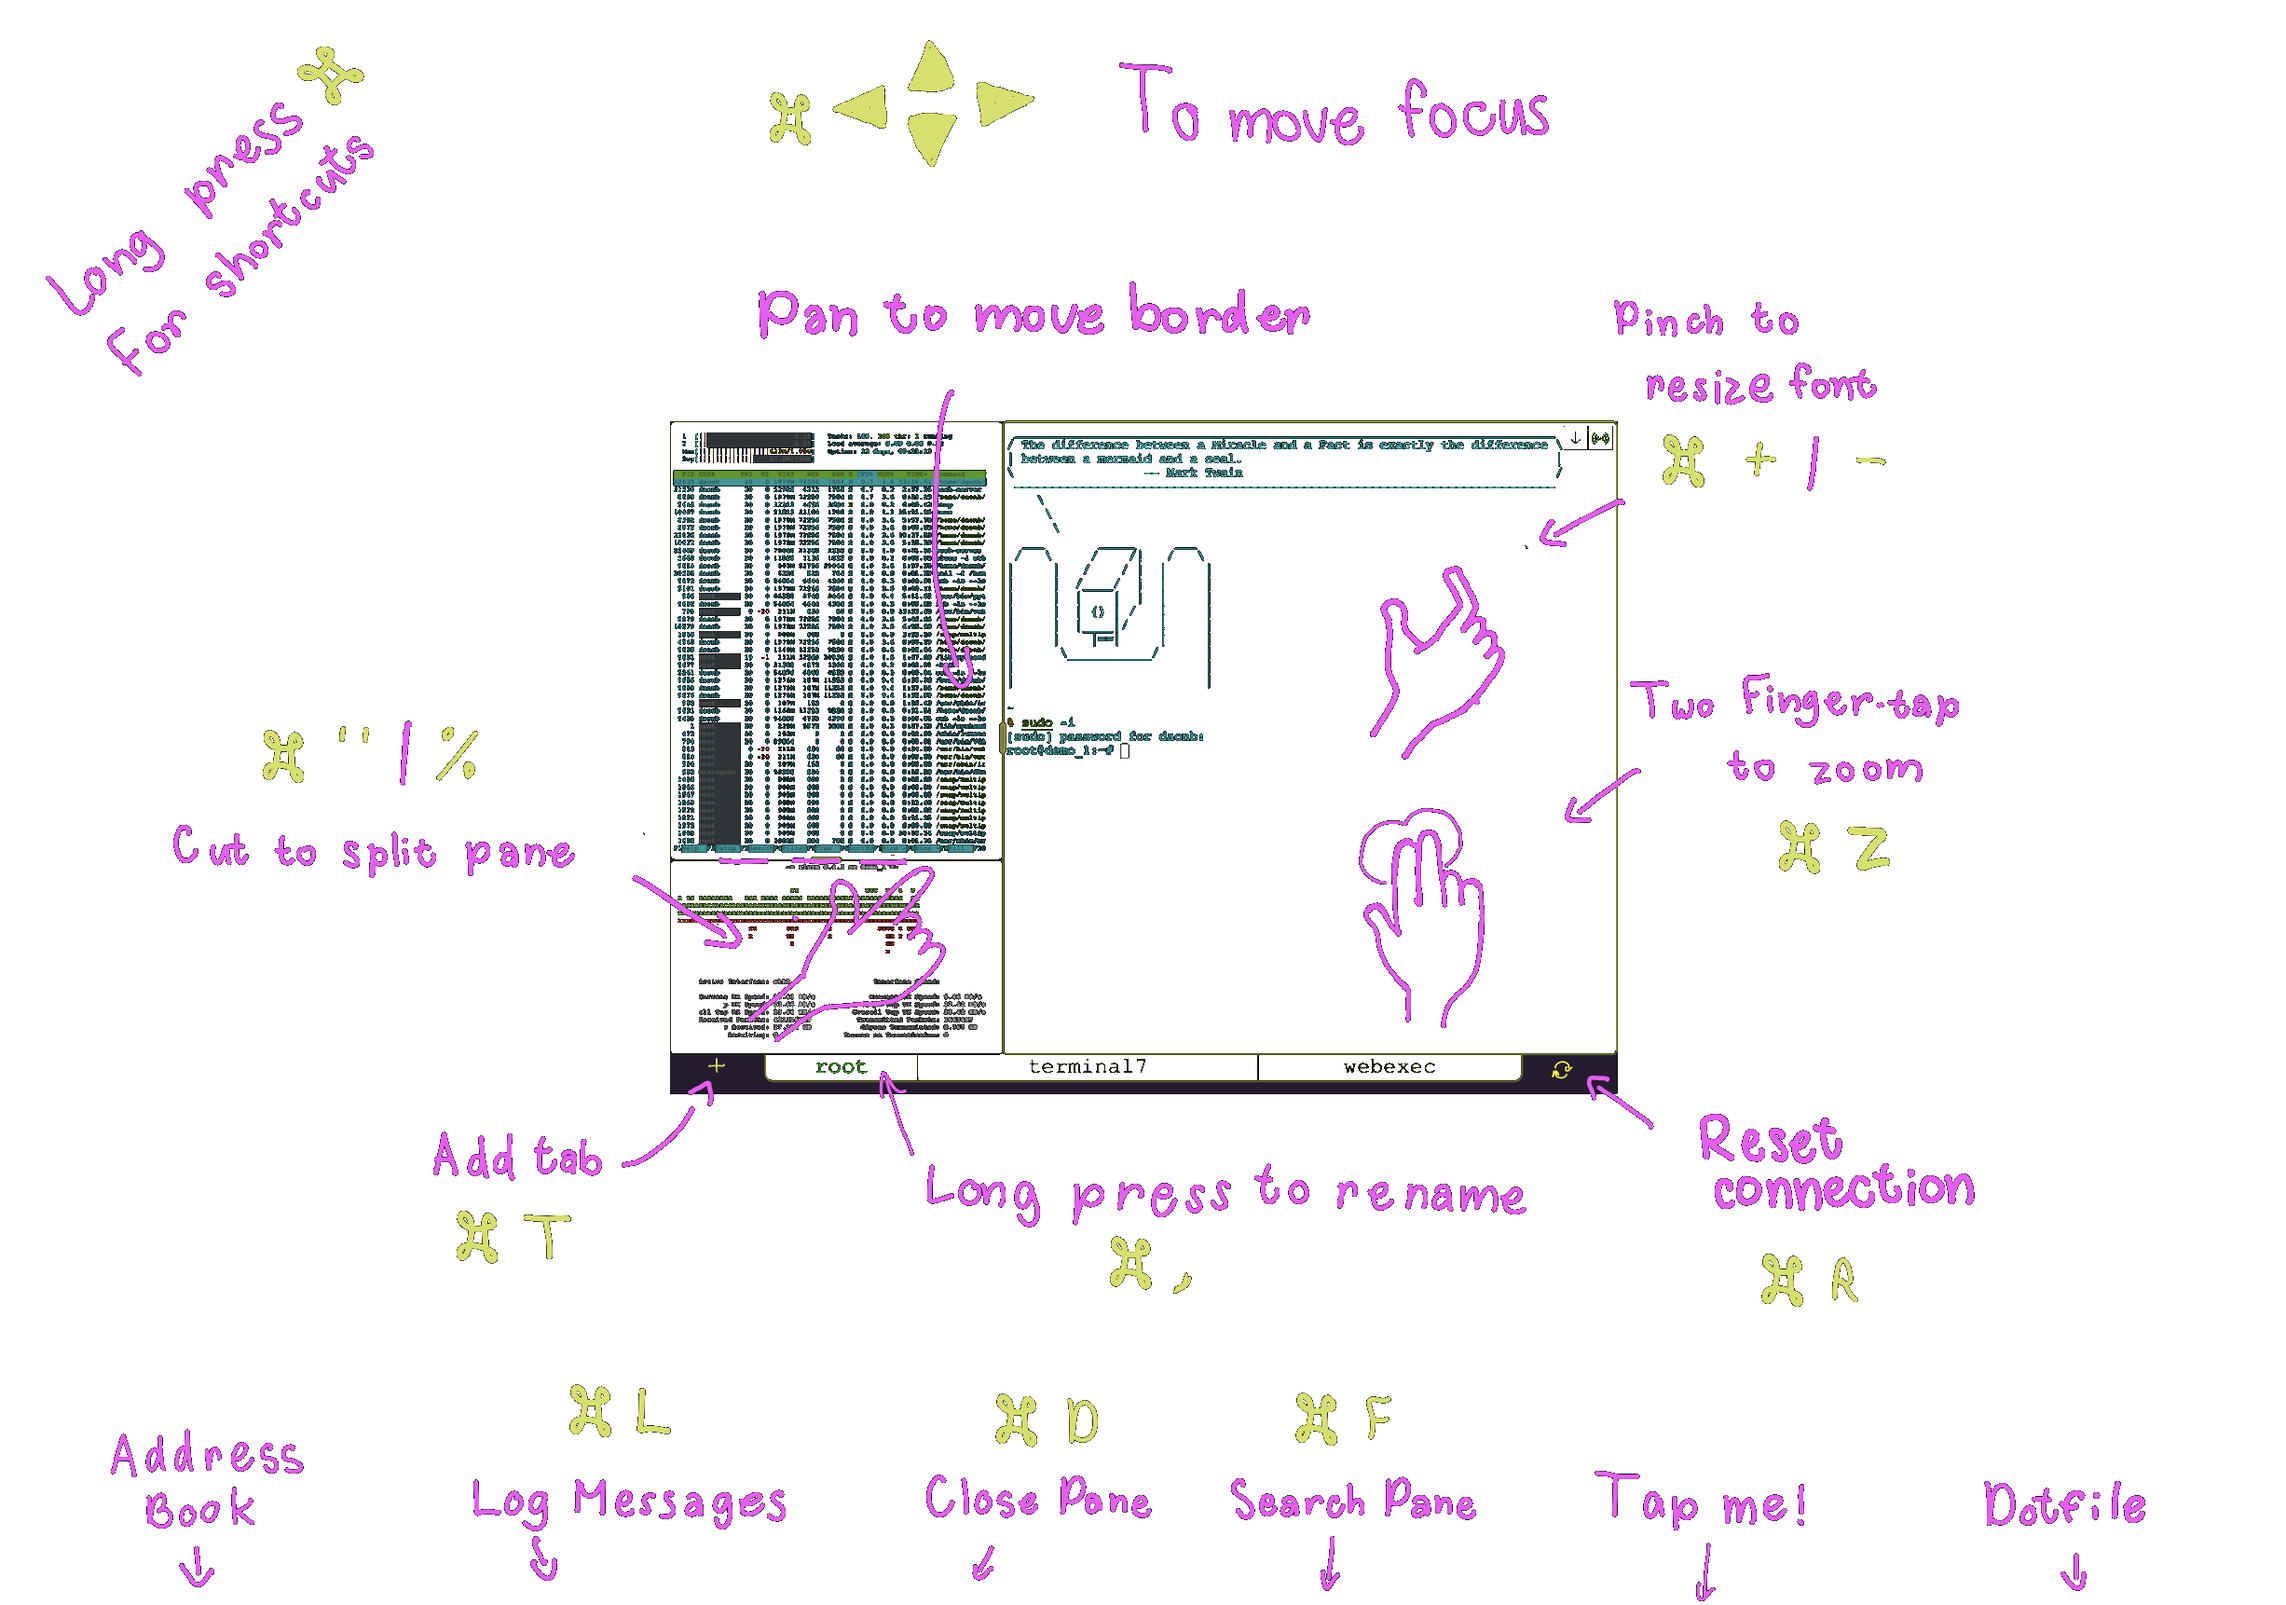
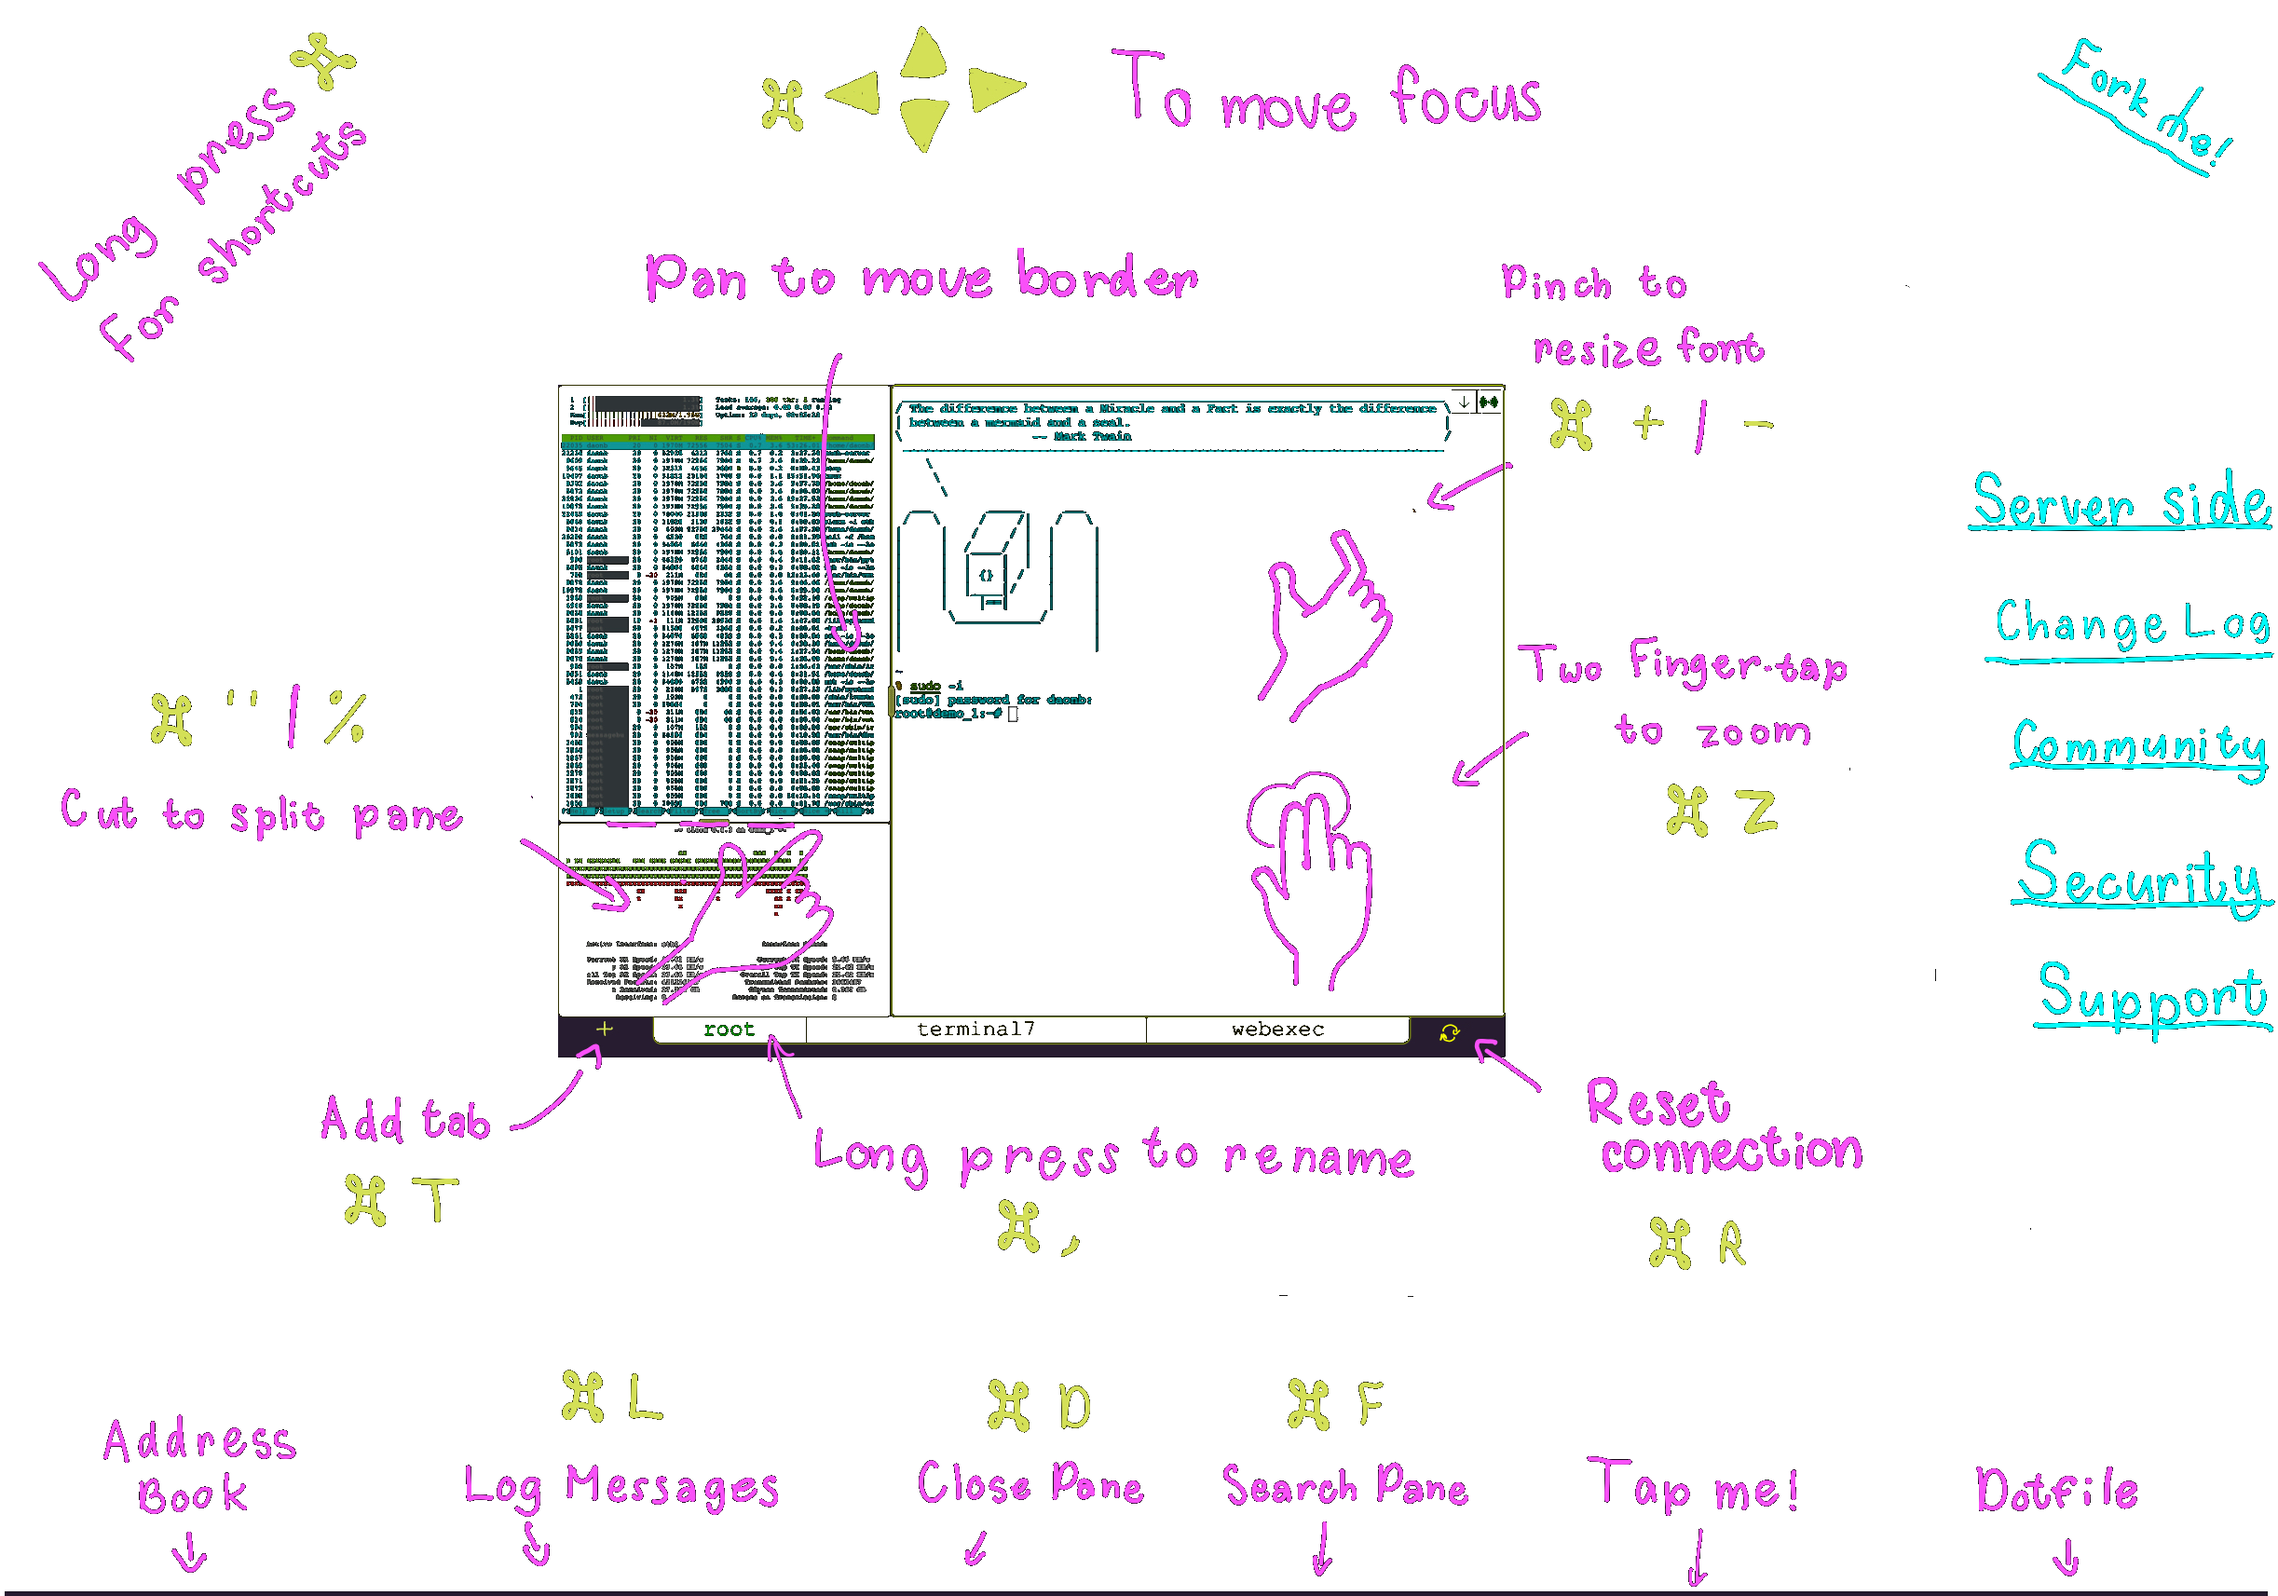
Restoring gate help links

diff --git a/www/index.html b/www/index.html
@@ -134,11 +134,29 @@
             <area shape="rect" coords="2000,1020,2439,1145"  alt="support"
                   href="mailto:support@tuzig.com"/>
         </map>
-        <img usemap="#help-home-links" src="img/help-home.png" alt="help screen"
-             width="100%"/>
+        <img usemap="#help-home-links" src="img/help-home.png"
+             alt="home help screen" width="100%"/>
       </div>
       <div id="help-gate" class="hidden" >
-          <img src="img/help-gate.png" alt="help screen" width="100%"/>
+        <map name="help-gate-links">
+            <area shape="rect" coords="2000,0,2439,300"  alt="githublink"
+                  href="https://github.com/tuzig/terminal7" target="_top"/>
+            <area shape="rect" coords="2000,500,2439,640"  alt="server side"
+                  href="https://github.com/tuzig/webexec" target="_top"/>
+            <area shape="rect" coords="2000,640,2439,770"  alt="change log"
+                  href="https://github.com/tuzig/terminal7/blob/master/CHANGELOG.md"
+                  target="_top"/>
+            <area shape="rect" coords="2000,770,2439,895" alt="community"
+                  href="https://discord.gg/rKvkkjsx"
+                  target="_top"/>
+            <area shape="rect" coords="2000,895,2439,1020"  alt="security"
+                  href="https://github.com/docs/security.md"
+                  target="_top"/>
+            <area shape="rect" coords="2000,1020,2439,1145"  alt="support"
+                  href="mailto:support@tuzig.com"/>
+        </map>
+          <img usemap='#help-gate-links' src="img/help-gate.png"
+            alt="gate help screen" width="100%"/>
       </div>
       <div id="keys-help" class="hidden modal border" >
           <table>
